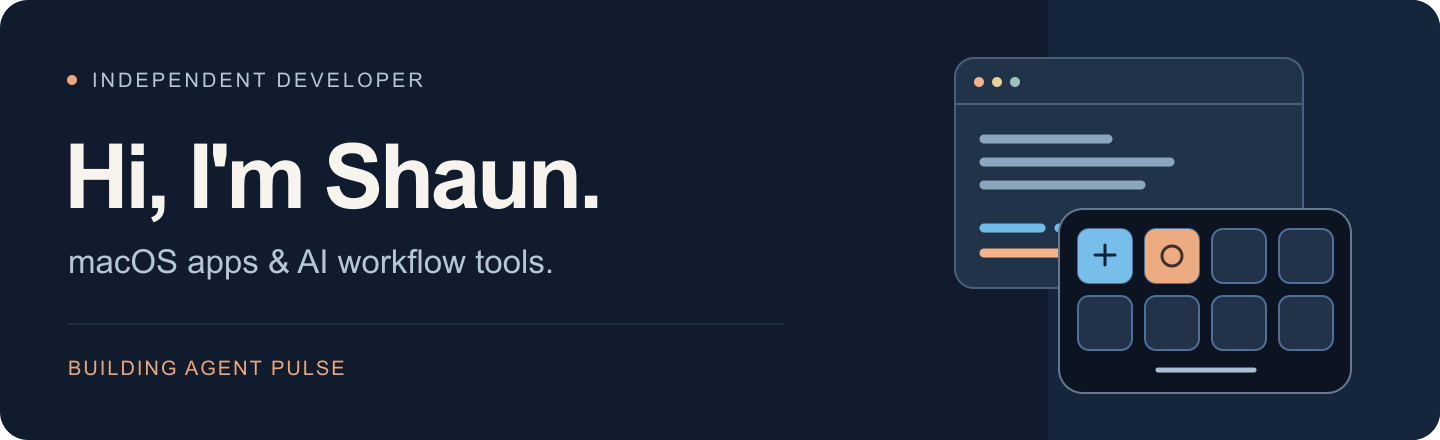
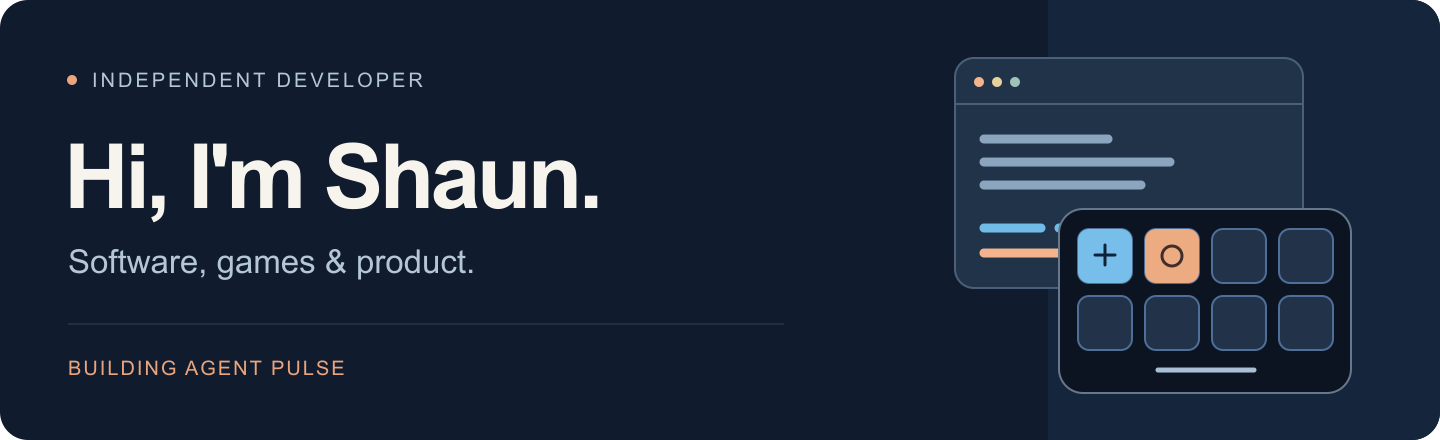
docs: add professional background and work contact

Changed region(s): [[0.0312, 0.5614, 0.375, 0.65]]

diff --git a/README.md b/README.md
@@ -1,8 +1,20 @@
 <p align="center">
-  <img src="assets/header.png" alt="Shaun — independent developer. macOS apps and AI workflow tools." width="100%">
+  <img src="assets/header.png" alt="Shaun — developer with a background in software, games, and product." width="100%">
 </p>
 
-I build macOS apps and tools for AI workflows, with a focus on clear interfaces and local control.
+**Work inquiries:** [xuwangofficial@gmail.com](mailto:xuwangofficial@gmail.com)
+
+## About me
+
+I'm Shaun (Xu Wang), a developer with an industrial design background and **7+ years in product management, game publishing, and creator platforms**. My career has included roles at ViaX, Sina Weibo, MOONTON Games, and Bilibili, as well as co-founding Doonutsaur Games.
+
+I'm currently pursuing an **M.S. in Computer Science at Northeastern University** (expected December 2027) while building software such as Agent Pulse. My interests span developer tools, games, and movement simulation, combining experience with users and products with hands-on development.
+
+### Selected experience
+
+- **Doonutsaur Games · Co-founder, Product and Publishing · 2024–2026** — Helped bring *Kill the Brickman* to Steam and Xbox, coordinating product planning and releases and contributing Unity/C# gameplay systems.
+- **Bilibili · Global Publishing and Product Operations · 2021–2023** — Worked on international game launches, localization, licensed-IP reviews, and coordination across development, publishing, and regional teams.
+- **Sina Weibo · Product Management, Creator Growth · 2019–2021** — Worked on creator onboarding, participation incentives, and content programs, collaborating with engineering and analytics on product improvements.
 
 ## Featured work
 
@@ -22,9 +34,11 @@ Follow task activity, recorded plan progress, and observed working time on your 
 
 ### What I work with
 
-**TypeScript** · **Electron** · **Node.js** · **macOS** · **Stream Deck Neo**
+**C# / Unity** · **Python** · **TypeScript** · **Electron** · **Node.js** · **SwiftUI**
 
-I'm currently focused on Agent Pulse and the details that make desktop tools easier to use.
+## Get in touch
+
+For job opportunities or project collaborations, reach me at **[xuwangofficial@gmail.com](mailto:xuwangofficial@gmail.com)**.
 
 ---
 
